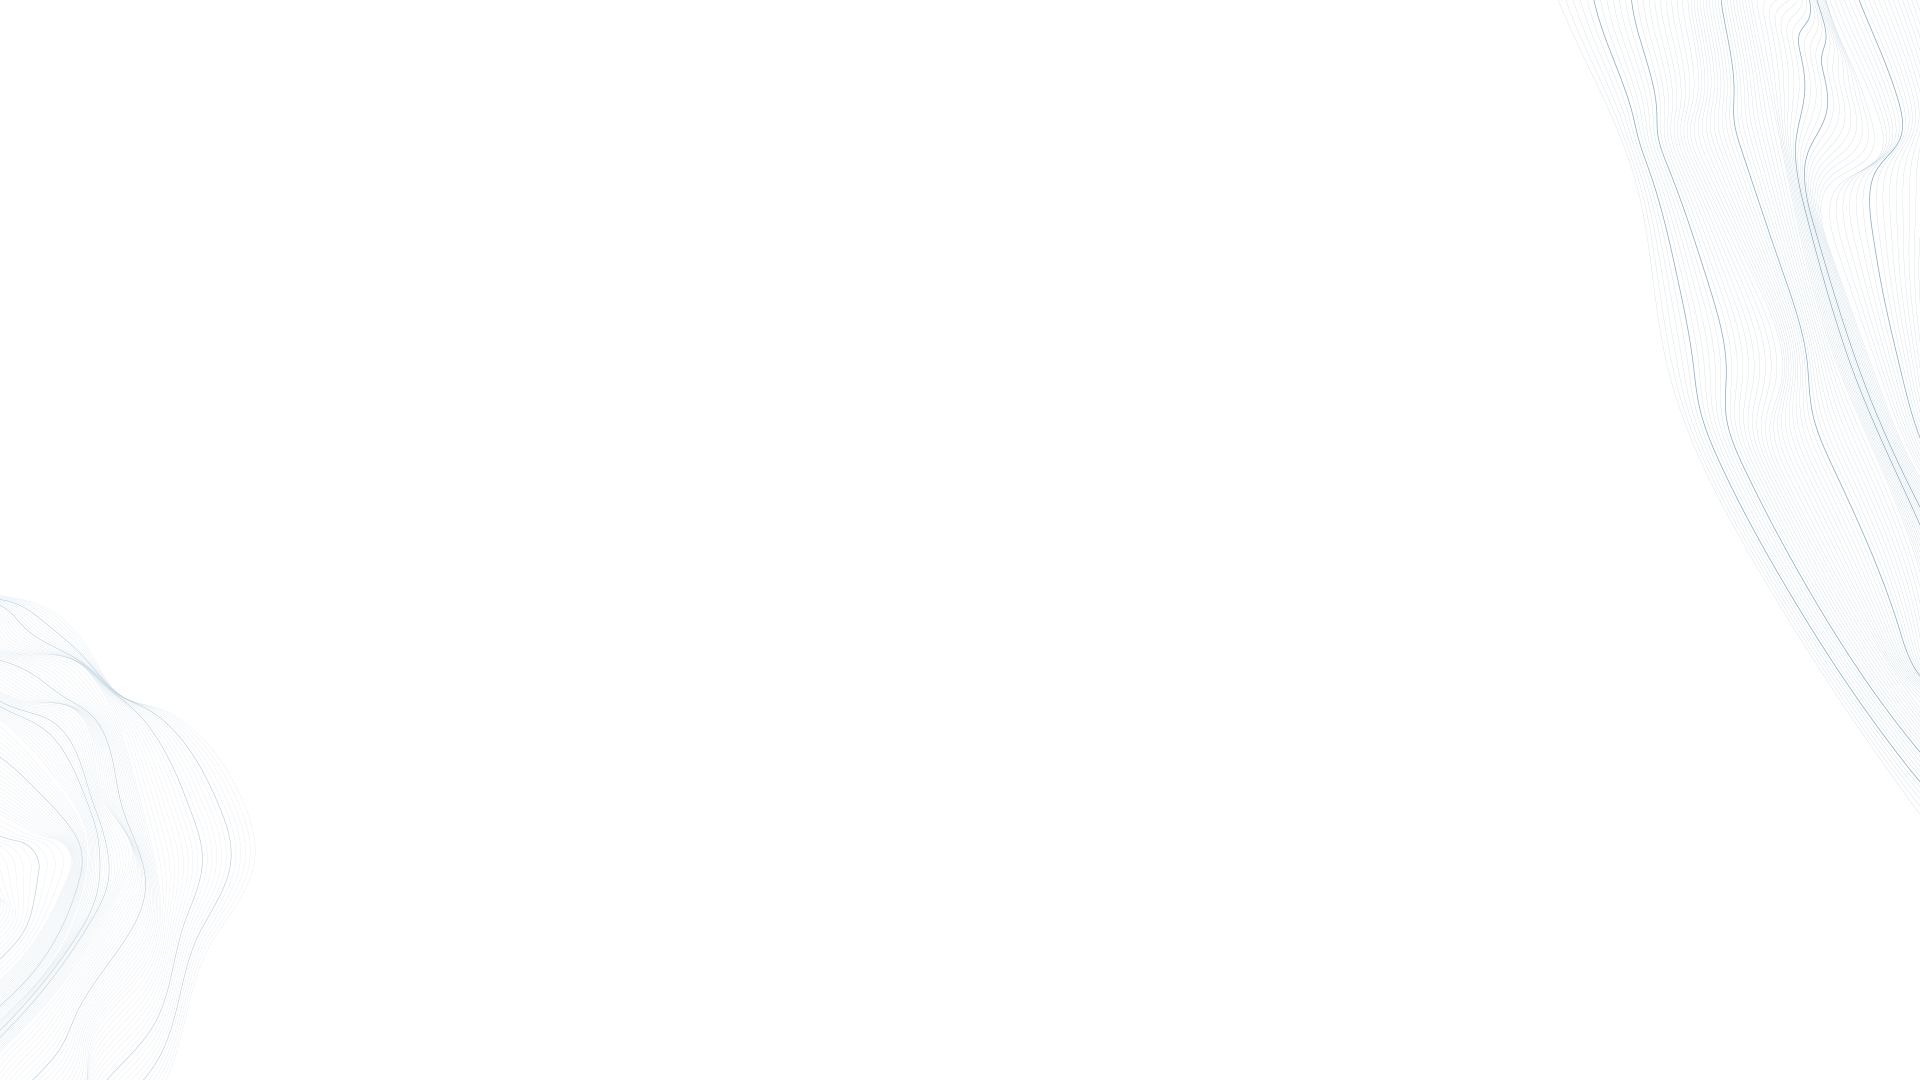
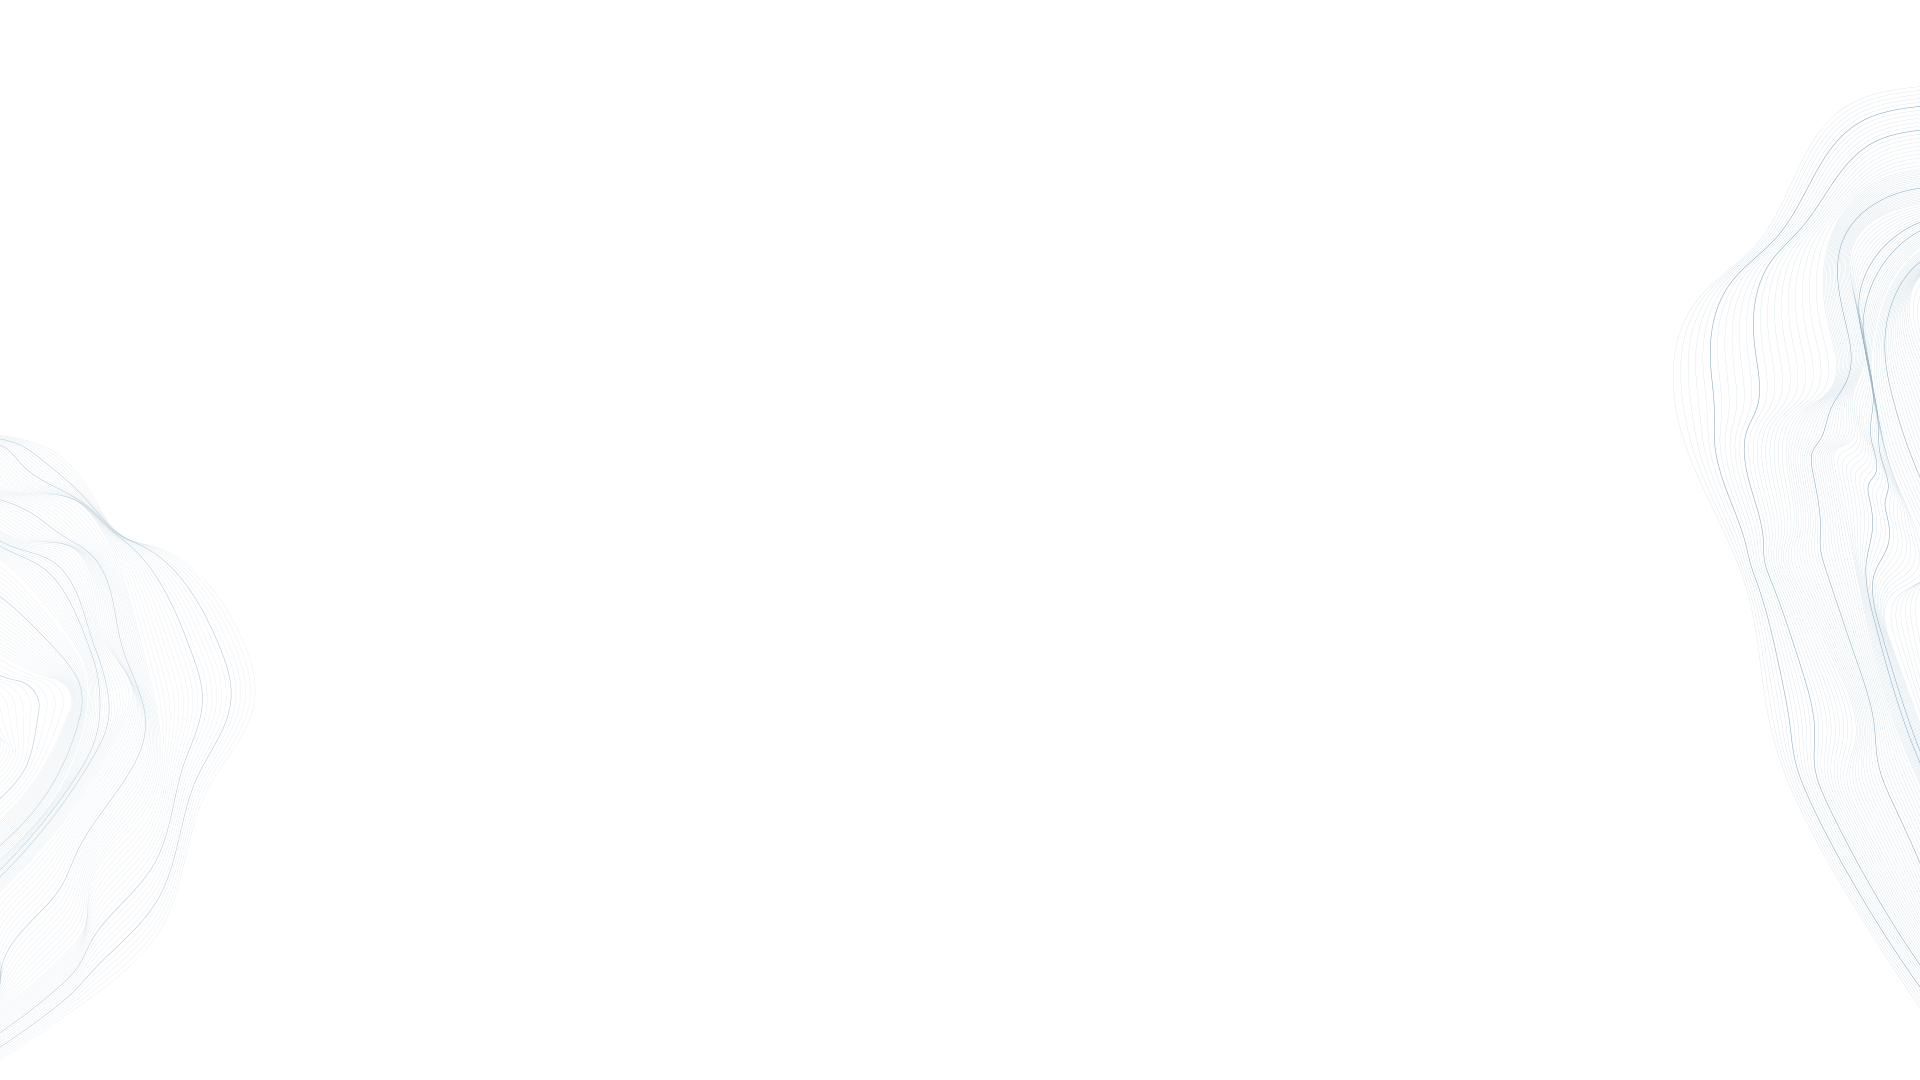
Desktop fixes

Changed region(s): [[0.9688, 0.3667, 1.0, 0.4278], [0.0312, 0.6111, 0.0625, 0.6417], [0.0312, 0.4583, 0.0625, 0.4889]]

diff --git a/css/style.css b/css/style.css
@@ -16,7 +16,7 @@
 
 @font-face {
     font-family: ProximaNovaXbold;
-    font-weight:  bolder;
+    font-weight:  bold;
     src: url("../fonts/ProximaNovaXbold.otf") format("opentype");
 }
 
@@ -32,8 +32,22 @@ section {
     position: relative;
 }
 
+h2 {
+    margin-bottom: 1em;
+}
+
 a.cta-btn {
     color: #000;
+    margin-top: 2em;
+    padding: 1em 5em;
+    font-size: large;
+}
+
+a.cta-btn.white-btn {
+    color: #fff;
+    border-color: #fff !important;
+    background: transparent !important;
+    font-size: large;
 }
 
 #header {
@@ -56,7 +70,7 @@ a.cta-btn {
 }
 
 #header.scrolled {
-    background: rgba(4,47,66, 0.7);
+    background: rgba(4,47,66, 0.9);
     transition: all 0.5s;
 }
 
@@ -277,10 +291,6 @@ a.cta-btn {
     font-size: 1.2em;
 }
 
-#about-us .cta-btn {
-    margin-top: 17%;
-}
-
 .cta-btn, input, textarea {
     display: inline-block;
     padding: 1em 3em;
@@ -321,8 +331,9 @@ input, textarea {
     font-size: 1.2em;
     position: relative;
     overflow: hidden;
-    background: url('../images/TERRAIN_MAP_WHAT_WE_DO.png') no-repeat bottom right;
-    background-size: 75%;
+    background: url(../images/TERRAIN_MAP_WHAT_WE_DO.png) no-repeat bottom;
+    background-position-x: 200%;
+    background-size: 75%
 }
 
 #what-we-do .card {
@@ -383,7 +394,7 @@ h4.header {
     background: url('../images/shutterstock_127527467.jpg') no-repeat center;
     text-align: center;
     color: #fff;
-    font-size: 2.4em;
+    font-size: 2.5em;
 }
 
 #who-work-with h2 {

diff --git a/index.html b/index.html
@@ -165,6 +165,7 @@
                             </div>
                         </div>
                     </div>
+                    <div class="w-100 d-none d-md-block"></div>
                     <div class="card mb-4 gray-bg text-center card_4">
                         <!--<img src="images/361x150px_559520543.jpg"/>-->
                         <div class="parallax-button">
@@ -330,9 +331,12 @@
             <div class="container vertical-center">
                 <h2>Who we work with?</h2>
                 <div class="row">
-                    <div class="col">
+                    <div class="col-10 offset-1 col-md-8 offset-md-2">
                         We work with a number of leading firms and asset managers encompassing all of the asset classes, from private equity, fixed income to alternatives.
                     </div>
+                </div>
+                <div class="row justify-content-center">
+                    <a class="cta-btn white-btn" href="#contact-us">Get In Touch</a>
                 </div>
             </div>
         </section>
